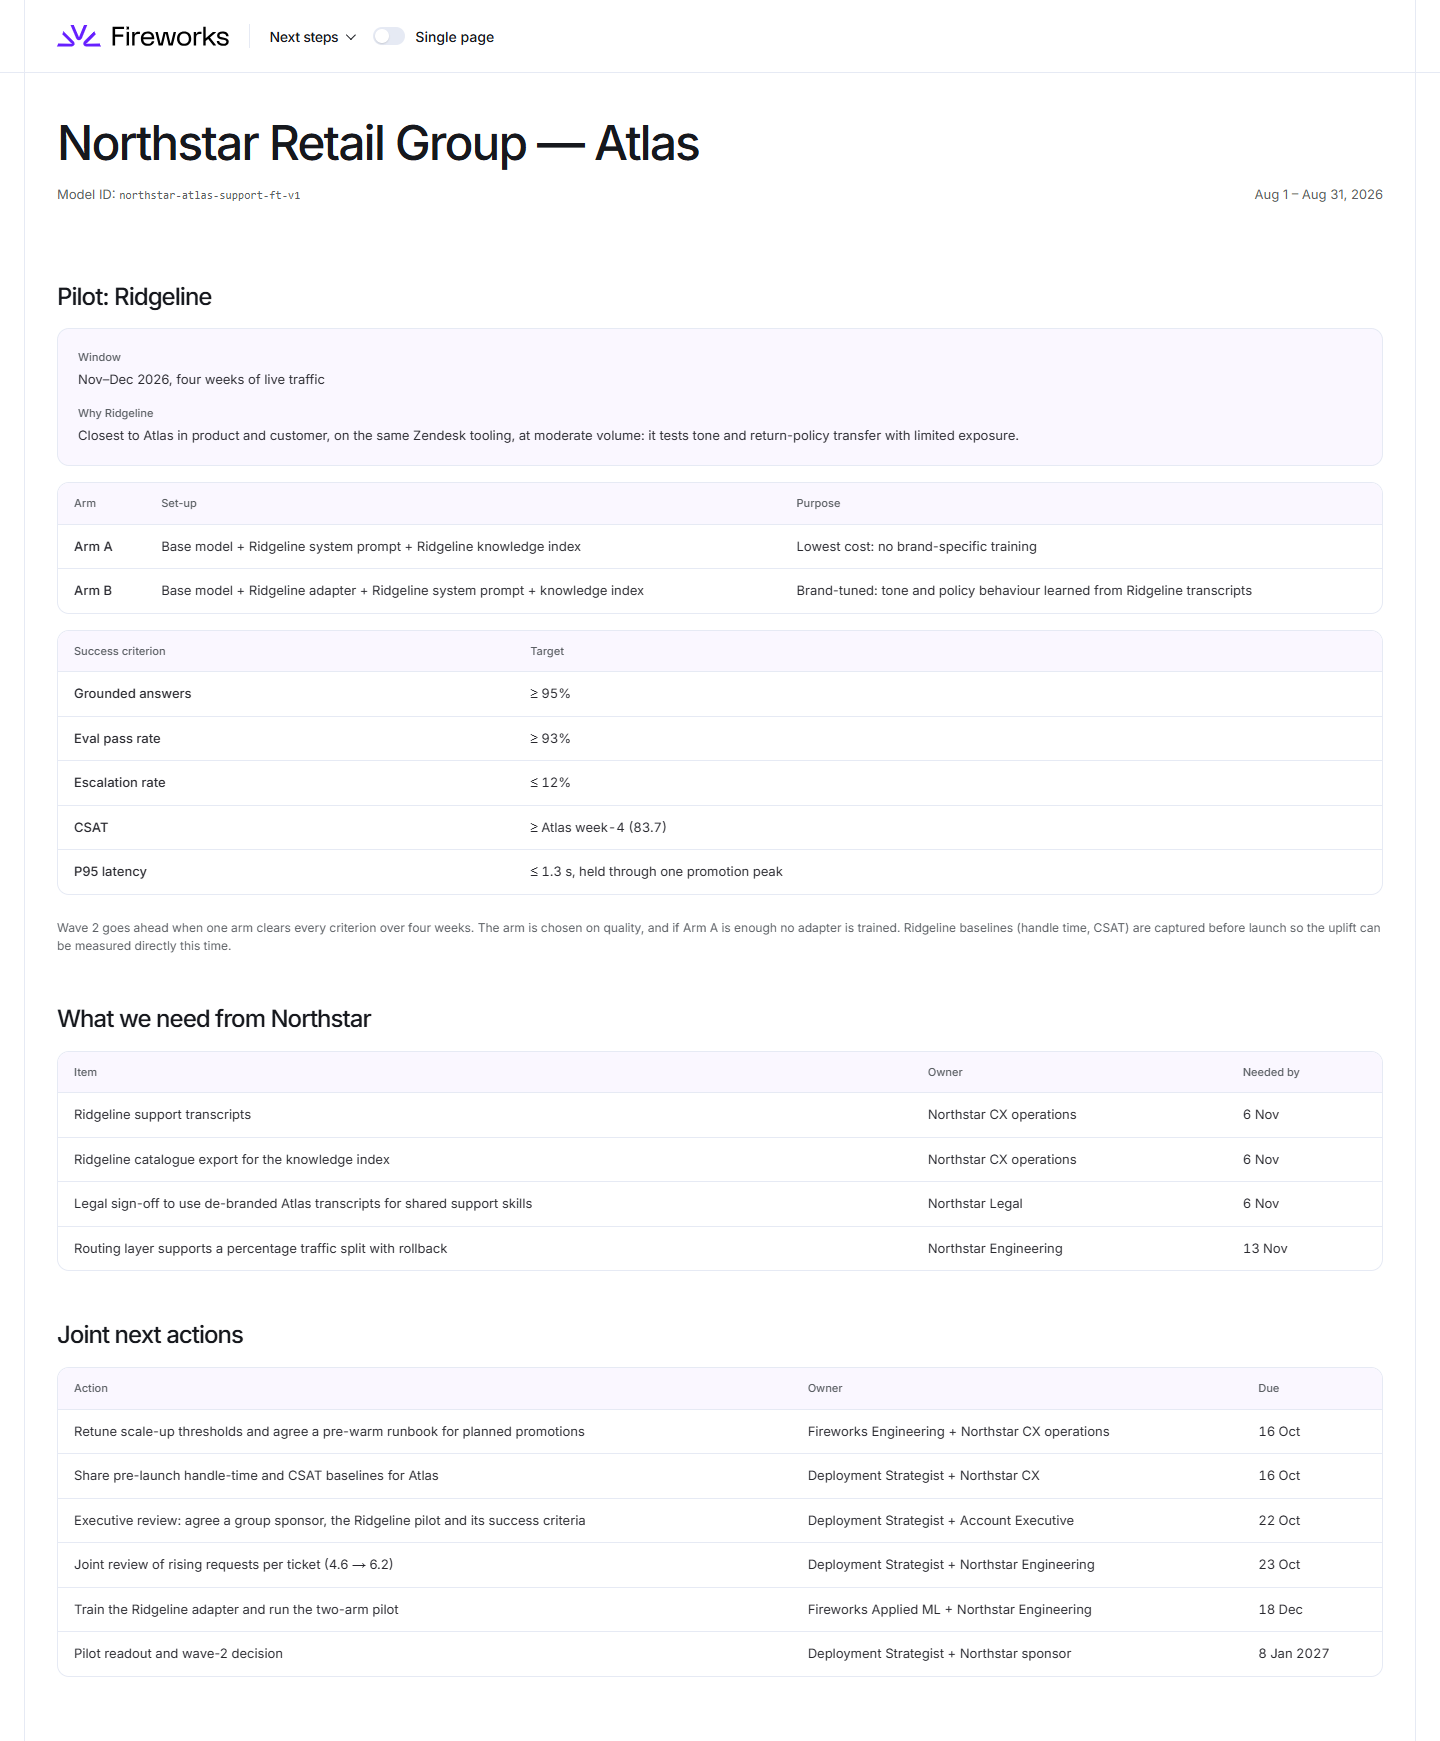
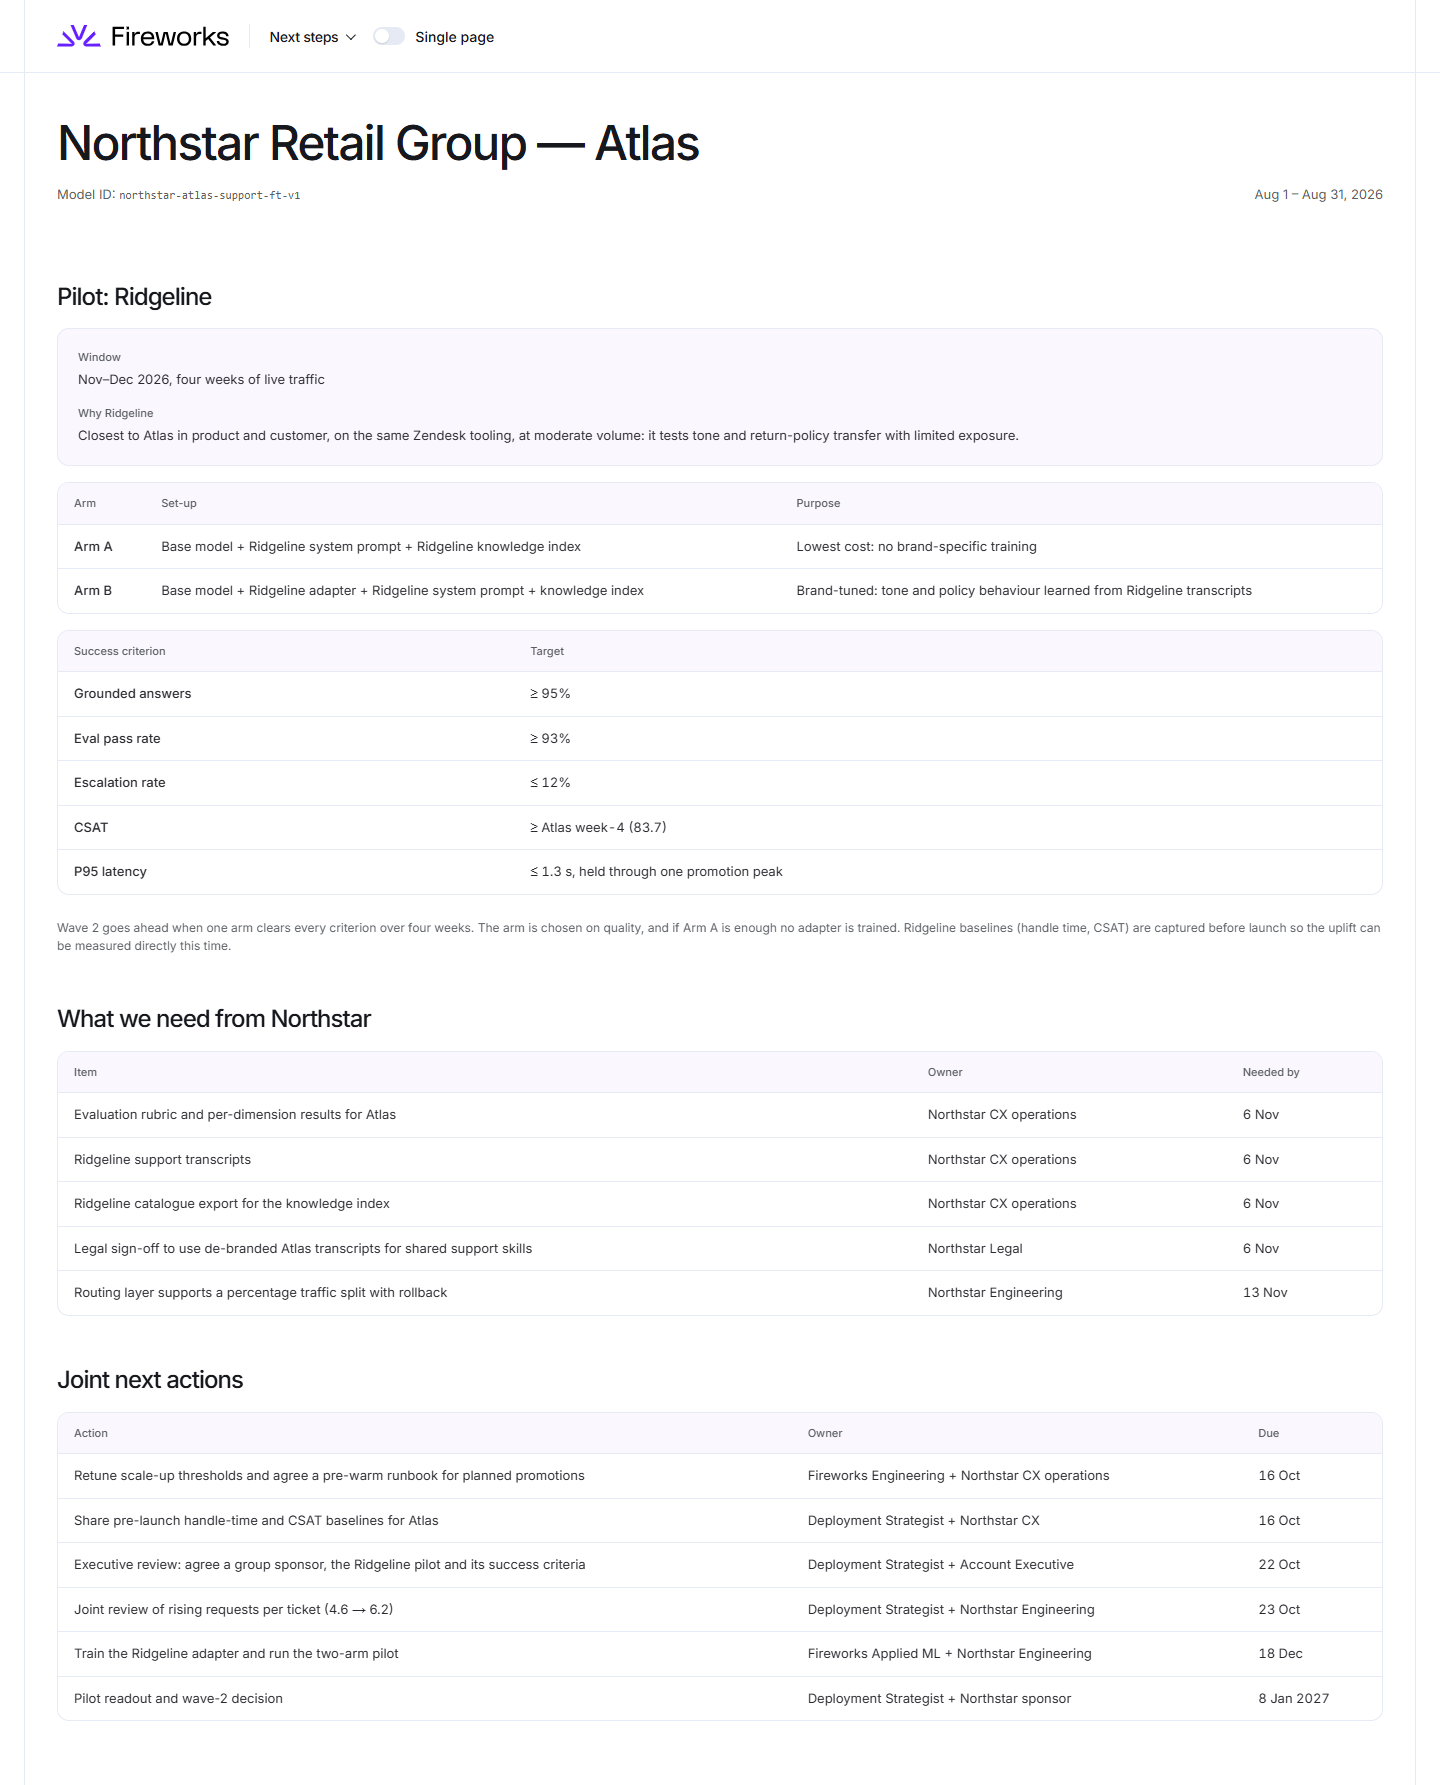
Eval pass rate: unconfirmed definition, production eval hierarchy, rubric dependency (#76)

diff --git a/internal-qbr/src/plan.ts b/internal-qbr/src/plan.ts
@@ -116,6 +116,7 @@ export const DEPENDENCIES: Dependency[] = [
   { item: 'Scale-up threshold retune and promotion pre-warm runbook on the Atlas deployment (warm floor only if telemetry calls for it)', side: 'Fireworks', owner: 'Fireworks Engineering', neededBy: '16 Oct', status: 'In progress' },
   { item: 'BF16 capacity reserved for the shared multi-LoRA deployment (EU region; 1.5x region-restricted rate to be confirmed with Northstar)', side: 'Fireworks', owner: 'Fireworks Infrastructure', neededBy: '6 Nov', status: 'Not started' },
   { item: 'Ridgeline adapter training and per-brand eval sets', side: 'Fireworks', owner: 'Fireworks Applied ML', neededBy: '20 Nov', status: 'Not started' },
+  { item: 'Eval harness rubric and per-dimension results for Atlas (what the eval pass rate measures)', side: 'Northstar', owner: 'Northstar CX operations', neededBy: '6 Nov', status: 'Not started' },
   { item: 'Ridgeline transcripts and catalogue export', side: 'Northstar', owner: 'Northstar CX operations', neededBy: '6 Nov', status: 'Not started' },
   { item: 'Legal sign-off on de-branded Atlas transcripts', side: 'Northstar', owner: 'Northstar Legal', neededBy: '6 Nov', status: 'Not started' },
   { item: 'Routing layer supports percentage traffic split and rollback', side: 'Northstar', owner: 'Northstar Engineering', neededBy: '13 Nov', status: 'Not started' },

diff --git a/customer-health/src/content.ts b/customer-health/src/content.ts
@@ -40,6 +40,7 @@ export interface CustomerDependency {
 }
 
 export const NORTHSTAR_DEPENDENCIES: CustomerDependency[] = [
+  { item: 'Evaluation rubric and per-dimension results for Atlas', owner: 'Northstar CX operations', neededBy: '6 Nov' },
   { item: 'Ridgeline support transcripts', owner: 'Northstar CX operations', neededBy: '6 Nov' },
   { item: 'Ridgeline catalogue export for the knowledge index', owner: 'Northstar CX operations', neededBy: '6 Nov' },
   { item: 'Legal sign-off to use de-branded Atlas transcripts for shared support skills', owner: 'Northstar Legal', neededBy: '6 Nov' },

diff --git a/shared/src/health/rampup.ts b/shared/src/health/rampup.ts
@@ -177,7 +177,7 @@ export const RAMPUP: PillarDef[] = [
         precision: 1,
         format: (n) => fmtPct(n, 1),
         bands: { direction: 'higher', edges: [95, 90, 85, 80] },
-        note: 'Assumed composite: passes only if every component check passes.',
+        note: 'The dataset gives an eval pass rate without its rubric. For planning we assume it is an end-to-end quality gate; in production the individual eval dimensions should be exposed.',
       },
     ],
   },

diff --git a/docs/RAMPUP.md b/docs/RAMPUP.md
@@ -80,9 +80,23 @@ Context for the automation bands:
 - **RAGAS** shows an example CI configuration that gates on answer relevancy ≥ 0.90 and context precision/recall ≥ 0.95 ([RAGAS: add to CI](https://docs.ragas.io/en/v0.2.8/howtos/applications/add_to_ci/)). It is an example of where teams set release gates, not an industry benchmark. We borrowed 0.95 and 0.90 as the edges of 5 and 4; 85% and 80% for 3 and 2 are our interpolation in 5-point steps.
 - **Microsoft Foundry** supplies the *structure*, not the thresholds: separate component evaluators (Groundedness, Intent Resolution, Task Adherence, Task Completion) on a 1–5 scale with a default pass mark of 3, and a composite Output Quality that passes only when every applicable component passes ([Microsoft Foundry: agent evaluators](https://learn.microsoft.com/en-us/azure/foundry/concepts/evaluation-evaluators/agent-evaluators)). It does not say what share of requests passing earns a given score.
 - **Why two metrics:** they measure different things. Grounding asks whether the answer stayed supported by the available knowledge; eval pass asks whether the whole response met the task-quality bar. Both are direct measures of the model, unlike CSAT or escalation, which sit in User outcomes.
-- **Assumed definitions:** `grounded_answer_rate_pct` is the share of responses passing a groundedness check. `quality_eval_pass_rate_pct` is a composite that passes only when every component passes, structured like Foundry's Output Quality.
+- **Assumed definitions (not confirmed):** `grounded_answer_rate_pct` is taken as the share of responses passing a groundedness check. The dataset provides `quality_eval_pass_rate_pct` without the underlying rubric, so we don't know what it measures. For planning we assume it represents an end-to-end quality gate (structured like Foundry's Output Quality: passes only when every component passes). Production should expose the individual eval dimensions; the rubric is requested from Northstar as a pilot dependency.
 - **Not used:** the RAGAS page also shows `faithfulness 0.4 ± 0.1`. That's a test that the score hasn't drifted, not a quality bar.
 - **To firm up:** the gates should be confirmed with Northstar against their own eval harness, ideally with the pass marks they already use for release decisions.
+
+**Recommended production eval hierarchy.** One overall pass, broken down so a drop can be traced to its cause. It pairs end-to-end outcome checks with process and tool-use checks, the same philosophy as Microsoft Foundry's agent evaluators ([Microsoft Foundry: agent evaluators](https://learn.microsoft.com/en-us/azure/foundry/concepts/evaluation-evaluators/agent-evaluators)).
+
+| Level | Dimension | Question it answers |
+|---|---|---|
+| Overall | End-to-end pass | Did the response meet the bar on every applicable dimension below? |
+| Outcome | Factual accuracy / grounding | Is every claim supported by the catalogue, policy or order data retrieved? |
+| Outcome | Policy compliance | Does it apply the brand's return, warranty and safety policies correctly? |
+| Outcome | Task completion | Did it resolve what the shopper asked? |
+| Process | Tool-call correctness | Right tool, right arguments (order lookup, returns, stock), results used correctly |
+| Process | Escalation correctness | Hands over to a human when it should, and only then |
+| Brand | Tone and brand adherence | Sounds like this brand, not Atlas or a generic assistant |
+
+Reporting each dimension per brand is what makes the multi-brand pilot readable: a Ridgeline failure on policy compliance points to the knowledge index or prompt, while a failure on tone points to the adapter.
 
 ### U: User outcomes
 

diff --git a/docs/DECISIONS.md b/docs/DECISIONS.md
@@ -108,3 +108,4 @@ Scoring-specific detail (bands, sources, formulas) lives in [RAMPUP.md](RAMPUP.m
 | 73 | 2026-10-05 | **Adoption scored on automation penetration only; request-volume growth removed from the score.** Adoption = automated Tier-1 tickets ÷ Tier-1 tickets (67.9% → 3). Automated-ticket volume is shown as context against total tickets in the automation chart headlines (penetration 65.8% → 70.1%, automated tickets +15%, total tickets +8%). A falls 4.0 → 3.0; internal score 3.37 → 3.17 (still Positive-Watch); customer score 3.83 → 3.58 | Request volume is consumption, not adoption: with requests per ticket rising 4.6 → 6.2, the old metric would score the model making more calls per ticket as higher adoption, the opposite of what we want | Keeping volume growth as a second Adoption metric; scoring automated-ticket growth |
 | 74 | 2026-10-05 | **No rate-of-change score for Adoption.** Considered a second metric crediting the climb in automation penetration (August: +5.4 pts/month on the trend line, R² 0.99; +4.3 pts week 1 → final week; about +5 pts/month judged good). Left out; Adoption stays on full-period penetration alone (#73) | Growth has a ceiling: a highly automated account (e.g. 90%) has little room left to grow, so a pace score would penalise the best accounts. The climb is still shown in the automation chart headline | Scoring points-per-month growth as a second Adoption metric |
 | 75 | 2026-10-05 | **Model-quality bands relabelled as account-team quality gates, anchored to common evaluation-framework practice.** Metrics unchanged (grounded answers + eval pass, 95/90/85/80). RAMPUP.md now says RAGAS's 0.90/0.95 is an example CI configuration we borrowed as the 5 and 4 edges, and Foundry supplies the evaluator structure (components, composite passes only if all pass) but no scale | The earlier wording implied RAGAS and Foundry establish the 5-point scale; neither does. Saying so is more defensible than overstating the sources | Presenting RAGAS/Foundry as the benchmark for the full scale |
+| 76 | 2026-10-05 | **Eval pass rate treated as an unconfirmed definition; production eval hierarchy recommended.** The internal note and RAMPUP.md now say the dataset gives the rate without its rubric and we assume an end-to-end quality gate for planning. RAMPUP.md adds the recommended hierarchy (overall pass → grounding → policy compliance → task completion → tool-call correctness → escalation correctness → tone/brand), the pilot measures eval pass by dimension, and the rubric is a Northstar dependency due 6 Nov on both dashboards | We don't know what the supplied field measures; saying so and proposing the breakdown is stronger than asserting a definition | Keeping the assumed composite stated as fact |

diff --git a/docs/ARCHITECTURE.md b/docs/ARCHITECTURE.md
@@ -144,7 +144,7 @@ Run the pilot brand both ways on the new shared deployment:
 
 - **If arm A clears the grounding and eval thresholds,** the brand doesn't need an adapter. Say so: the plan is "the lowest cost that clears the quality bar", not "the cheapest".
 - **If it doesn't,** arm B is the plan, and the pilot produced the evidence.
-- **Measure in both arms:** grounding, eval pass, escalation, CSAT, tone/policy fidelity, and P50/P95 time-to-first-token.
+- **Measure in both arms:** grounding, eval pass broken down by dimension (policy compliance, task completion, tool-call and escalation correctness, tone; see the eval hierarchy in RAMPUP.md), escalation, CSAT, and P50/P95 time-to-first-token.
 
 **Success criteria** (four weeks of live traffic; one arm must clear all of them):
 
